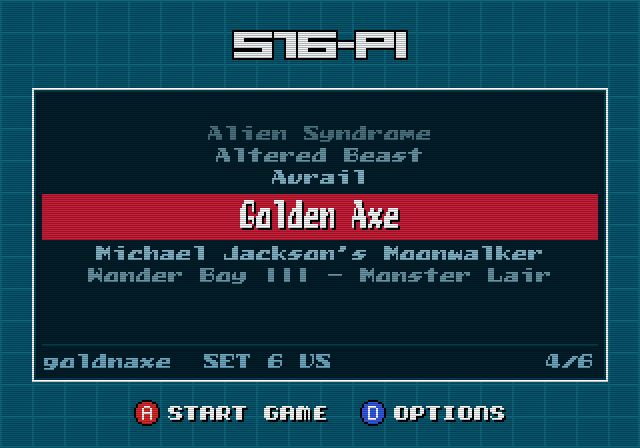
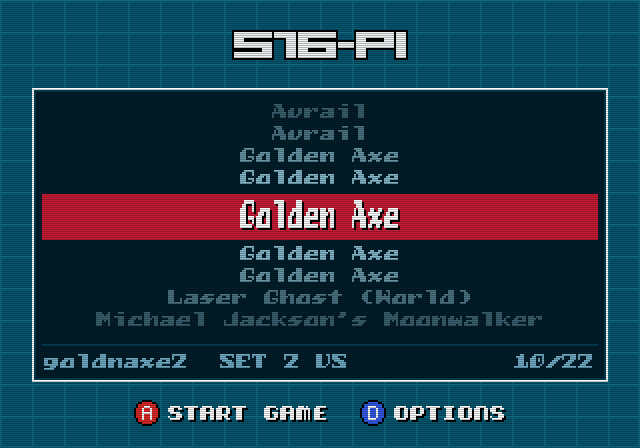
Site: s16-pi in bold white in the text, ROMs in alphabetical order, shorter decryption note, core 1 'beam racing'; new game list and DIP switch shots (light scanlines), COMPOSITE detail of Moonwalker with the dot crawl, as on m92-pi
Claude-Session: https://claude.ai/code/session_01LW2N7bwyrTdRKsDwXNSwyE

diff --git a/docs/index.html b/docs/index.html
@@ -357,6 +357,7 @@ footer .lines { display: grid; gap: 8px; min-width: 0; }
 .lgshade { margin: 40px calc(50% - 50vw - 40px); filter: drop-shadow(0 0 12px rgba(0,0,0,.5)); }	/* depth for the torn edges; wider than the screen, cut by it */
 html, body { overflow-x: clip; }
 .lgshade .lg { margin: 0; }
+.me { color: #fff; font-weight: 700; }	/* the name in the text */
 </style>
 </head>
 <body>
@@ -399,7 +400,7 @@ html, body { overflow-x: clip; }
   <div class="content">
     <h3>System 16/18</h3>
     <dl class="kv">
-      <dt>Main CPU</dt>   <dd>68000 · 10 MHz <small>(FD1089 / FD1094 decrypted with each key)</small></dd>
+      <dt>Main CPU</dt>   <dd>68000 · 10 MHz <small>(FD1089/FD1094 decrypted)</small></dd>
       <dt>Sound CPU</dt>  <dd>Z80 · 4–8 MHz</dd>
       <dt>Sound</dt>      <dd>16A: YM2151 + 8048 DAC · 16B: YM2151 + µPD7759 · 18: 2 × YM3438 + RF5C68</dd>
       <dt>Video</dt>      <dd>two tile layers, text layer, 128 sprites · 18: plus the Mega Drive VDP (315-5313)</dd>
@@ -408,7 +409,7 @@ html, body { overflow-x: clip; }
     <h3>RPi</h3>
     <dl class="kv">
       <dt>Core 0</dt> <dd>68000 · Z80 · sound chips <small>(+ pads and UI)</small></dd>
-      <dt>Core 1</dt> <dd>tiles · sprites · VDP <small>(draws each line just before it is sent)</small></dd>
+      <dt>Core 1</dt> <dd>tiles · sprites · VDP <small>(beam racing)</small></dd>
       <dt>Core 2</dt> <dd>COMPOSITE filter <small>(when chosen)</small></dd>
       <dt>Output</dt> <dd>HDMI 1080p (4×) or 720p (3×), integer scaling · 48 kHz audio</dd>
       <dt>Pads</dt>   <dd>USB, polled every 1 ms · up to 4 players</dd>
@@ -422,8 +423,8 @@ html, body { overflow-x: clip; }
     <div class="shots">
       <figure><img src="img/list.png" width="640" height="448" alt="Game list"><figcaption>Game list</figcaption></figure>
       <figure><img src="img/golden-axe.png" width="640" height="448" alt="Golden Axe" loading="lazy"><figcaption>Golden Axe (System 16)</figcaption></figure>
-      <figure><img src="img/moonwalker.png" width="640" height="448" alt="Michael Jackson's Moonwalker" loading="lazy"><figcaption>Michael Jackson's Moonwalker (System 18)</figcaption></figure>
-      <figure><img src="img/options.png" width="640" height="448" alt="Options menu"><figcaption>Options</figcaption></figure>
+      <figure><div class="crt"><img src="img/composite.png" width="640" height="480" loading="lazy" alt="Detail of the Moonwalker title through the COMPOSITE filter: colour fringes and dot crawl on the edges"><div class="composite" aria-hidden="true"></div></div><figcaption>Optional COMPOSITE filter (detail)</figcaption></figure>
+      <figure><img src="img/dip-switches.png" width="640" height="448" alt="DIP switches over Golden Axe" loading="lazy"><figcaption>DIP switches</figcaption></figure>
     </div>
   </div>
 </section>
@@ -437,7 +438,7 @@ html, body { overflow-x: clip; }
 <section id="frame">
   <h2><span>03</span> Beam racing</h2>
   <div class="content">
-    <p>s16-pi uses <strong>beam racing</strong> to send each scanline to the TV as soon as it is rendered, in sync with the display's refresh. An emulator with double buffering instead waits for the entire frame to be rendered before presenting it, adding up to one frame of latency.</p>
+    <p><b class="me">s16-pi</b> uses <strong>beam racing</strong> to send each scanline to the TV as soon as it is rendered, in sync with the display's refresh. An emulator with double buffering instead waits for the entire frame to be rendered before presenting it, adding up to one frame of latency.</p>
     <div class="timeline">
       <div class="spacer"></div>
       <div class="scale" aria-hidden="true"><span class="s0">0 ms</span><span class="s1">16.7</span><span class="s2">33.4</span><span class="s3">50 ms</span></div>
@@ -478,28 +479,28 @@ html, body { overflow-x: clip; }
         <thead><tr><th>Year</th><th>Game</th><th>System</th><th>MAME sets</th></tr></thead>
         <tbody>
           <tr><td>1986</td><td>Alex Kidd: The Lost Stars</td><td class="sys">16A</td><td class="sets">alexkidd alexkidd1</td></tr>
-          <tr><td>1986</td><td>Fantasy Zone</td><td class="sys">16A</td><td class="sets">fantzone fantzone1 fantzonep fantzonee</td></tr>
-          <tr><td>1986</td><td>Quartet</td><td class="sys">16A</td><td class="sets">quartet quarteta quartet2 quartet2a</td></tr>
-          <tr><td>1987</td><td>Alien Syndrome</td><td class="sys">16A · 16B</td><td class="sets">aliensyn aliensyn2 aliensyn3 aliensyn5 aliensyn7 aliensynj</td></tr>
-          <tr><td>1987</td><td>Dunk Shot</td><td class="sys">16B</td><td class="sets">dunkshot dunkshota dunkshoto</td></tr>
-          <tr><td>1987</td><td>SDI</td><td class="sys">16A · 16B</td><td class="sets">sdi sdia defense sdib</td></tr>
-          <tr><td>1987</td><td>Shinobi</td><td class="sys">16A · 16B</td><td class="sets">shinobi shinobi1 … shinobi6</td></tr>
-          <tr><td>1988</td><td>Altered Beast</td><td class="sys">16B</td><td class="sets">altbeast altbeastj altbeast2 … altbeast6</td></tr>
-          <tr><td>1988</td><td>Dynamite Dux</td><td class="sys">16B</td><td class="sets">ddux dduxj ddux1</td></tr>
-          <tr><td>1988</td><td>Tetris</td><td class="sys">16A · 16B</td><td class="sets">tetris tetris1 tetris2 tetris3</td></tr>
-          <tr><td>1988</td><td>Wonder Boy III – Monster Lair</td><td class="sys">16A · 16B</td><td class="sets">wb3 wb31 wb32 … wb35</td></tr>
-          <tr><td>1989</td><td>Bloxeed</td><td class="sys">18</td><td class="sets">bloxeed bloxeeda</td></tr>
-          <tr><td>1989</td><td>Cyber Police ESWAT</td><td class="sys">16B</td><td class="sets">eswat eswatu eswatj eswatj1</td></tr>
-          <tr><td>1989</td><td>Golden Axe</td><td class="sys">16B</td><td class="sets">goldnaxe goldnaxeu goldnaxej goldnaxe1 … goldnaxe3</td></tr>
-          <tr><td>1989</td><td>Shadow Dancer</td><td class="sys">18</td><td class="sets">shdancer shdancerj shdancer1</td></tr>
-          <tr><td>1989</td><td>Tough Turf</td><td class="sys">16B</td><td class="sets">tturf tturfu</td></tr>
           <tr><td>1990</td><td>Alien Storm</td><td class="sys">18</td><td class="sets">astorm astorm3 astormu astormj</td></tr>
+          <tr><td>1987</td><td>Alien Syndrome</td><td class="sys">16A · 16B</td><td class="sets">aliensyn aliensyn2 aliensyn3 aliensyn5 aliensyn7 aliensynj</td></tr>
+          <tr><td>1988</td><td>Altered Beast</td><td class="sys">16B</td><td class="sets">altbeast altbeastj altbeast2 … altbeast6</td></tr>
           <tr><td>1990</td><td>Aurail</td><td class="sys">16B</td><td class="sets">aurail aurail1 aurailj</td></tr>
+          <tr><td>1989</td><td>Bloxeed</td><td class="sys">18</td><td class="sets">bloxeed bloxeeda</td></tr>
+          <tr><td>1991</td><td>Cotton</td><td class="sys">16B</td><td class="sets">cotton cottonu cottonj cottonja</td></tr>
+          <tr><td>1989</td><td>Cyber Police ESWAT</td><td class="sys">16B</td><td class="sets">eswat eswatu eswatj eswatj1</td></tr>
+          <tr><td>1991</td><td>D. D. Crew</td><td class="sys">18</td><td class="sets">ddcrew ddcrewu ddcrewj …</td></tr>
+          <tr><td>1987</td><td>Dunk Shot</td><td class="sys">16B</td><td class="sets">dunkshot dunkshota dunkshoto</td></tr>
+          <tr><td>1988</td><td>Dynamite Dux</td><td class="sys">16B</td><td class="sets">ddux dduxj ddux1</td></tr>
+          <tr><td>1986</td><td>Fantasy Zone</td><td class="sys">16A</td><td class="sets">fantzone fantzone1 fantzonep fantzonee</td></tr>
+          <tr><td>1989</td><td>Golden Axe</td><td class="sys">16B</td><td class="sets">goldnaxe goldnaxeu goldnaxej goldnaxe1 … goldnaxe3</td></tr>
           <tr><td>1990</td><td>Laser Ghost</td><td class="sys">18</td><td class="sets">lghost lghostu lghostj</td></tr>
           <tr><td>1990</td><td>Michael Jackson’s Moonwalker</td><td class="sys">18</td><td class="sets">mwalk mwalku mwalkj</td></tr>
-          <tr><td>1991</td><td>Cotton</td><td class="sys">16B</td><td class="sets">cotton cottonu cottonj cottonja</td></tr>
-          <tr><td>1991</td><td>D. D. Crew</td><td class="sys">18</td><td class="sets">ddcrew ddcrewu ddcrewj …</td></tr>
+          <tr><td>1986</td><td>Quartet</td><td class="sys">16A</td><td class="sets">quartet quarteta quartet2 quartet2a</td></tr>
           <tr><td>1991</td><td>Riot City</td><td class="sys">16B</td><td class="sets">riotcity</td></tr>
+          <tr><td>1987</td><td>SDI</td><td class="sys">16A · 16B</td><td class="sets">sdi sdia defense sdib</td></tr>
+          <tr><td>1989</td><td>Shadow Dancer</td><td class="sys">18</td><td class="sets">shdancer shdancerj shdancer1</td></tr>
+          <tr><td>1987</td><td>Shinobi</td><td class="sys">16A · 16B</td><td class="sets">shinobi shinobi1 … shinobi6</td></tr>
+          <tr><td>1988</td><td>Tetris</td><td class="sys">16A · 16B</td><td class="sets">tetris tetris1 tetris2 tetris3</td></tr>
+          <tr><td>1989</td><td>Tough Turf</td><td class="sys">16B</td><td class="sets">tturf tturfu</td></tr>
+          <tr><td>1988</td><td>Wonder Boy III – Monster Lair</td><td class="sys">16A · 16B</td><td class="sets">wb3 wb31 wb32 … wb35</td></tr>
         </tbody>
       </table>
     </div>
@@ -530,7 +531,7 @@ html, body { overflow-x: clip; }
 <section id="support">
   <h2><span>06</span> Support</h2>
   <div class="content">
-    <p>s16-pi is <strong>free</strong>. Enjoying it?</p>
+    <p><b class="me">s16-pi</b> is <strong>free</strong>. Enjoying it?</p>
     <a class="download coffee" href="#"><svg aria-hidden="true" width="14" height="12" viewBox="0 0 7 6" shape-rendering="crispEdges"><path d="M1 0h2v1h1V0h2v1h1v2h-1v1h-1v1h-1v1H3V5H2V4H1V3H0V1h1z"/></svg>Buy me a coffee</a>
     <p class="siblings">Siblings: <a href="https://alessioscand.github.io/neo-pi/">neo-pi</a> · <a href="https://alessioscand.github.io/m92-pi/">m92-pi</a> · <a href="https://github.com/alessioscand/nes-pi">nes-pi</a></p>
   </div>
